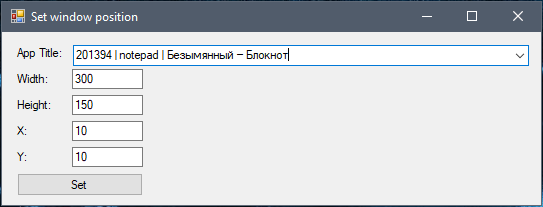
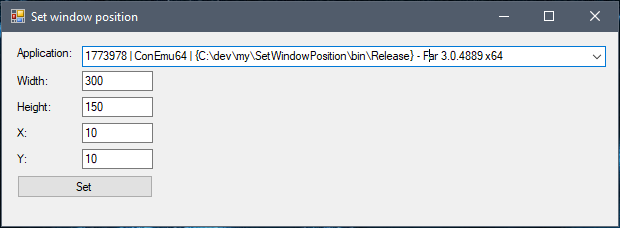
fix

diff --git a/Form1.Designer.cs b/Form1.Designer.cs
@@ -43,9 +43,9 @@
             // 
             // btnSet
             // 
-            this.btnSet.Location = new System.Drawing.Point(15, 141);
+            this.btnSet.Location = new System.Drawing.Point(15, 143);
             this.btnSet.Name = "btnSet";
-            this.btnSet.Size = new System.Drawing.Size(126, 23);
+            this.btnSet.Size = new System.Drawing.Size(136, 23);
             this.btnSet.TabIndex = 21;
             this.btnSet.Text = "Set";
             this.btnSet.UseVisualStyleBackColor = true;
@@ -53,7 +53,7 @@
             // 
             // txtY
             // 
-            this.txtY.Location = new System.Drawing.Point(70, 115);
+            this.txtY.Location = new System.Drawing.Point(80, 117);
             this.txtY.Name = "txtY";
             this.txtY.Size = new System.Drawing.Size(71, 20);
             this.txtY.TabIndex = 20;
@@ -62,7 +62,7 @@
             // label4
             // 
             this.label4.AutoSize = true;
-            this.label4.Location = new System.Drawing.Point(12, 118);
+            this.label4.Location = new System.Drawing.Point(12, 120);
             this.label4.Name = "label4";
             this.label4.Size = new System.Drawing.Size(17, 13);
             this.label4.TabIndex = 19;
@@ -70,7 +70,7 @@
             // 
             // txtX
             // 
-            this.txtX.Location = new System.Drawing.Point(70, 89);
+            this.txtX.Location = new System.Drawing.Point(80, 91);
             this.txtX.Name = "txtX";
             this.txtX.Size = new System.Drawing.Size(71, 20);
             this.txtX.TabIndex = 18;
@@ -79,7 +79,7 @@
             // label5
             // 
             this.label5.AutoSize = true;
-            this.label5.Location = new System.Drawing.Point(12, 92);
+            this.label5.Location = new System.Drawing.Point(12, 94);
             this.label5.Name = "label5";
             this.label5.Size = new System.Drawing.Size(17, 13);
             this.label5.TabIndex = 17;
@@ -87,7 +87,7 @@
             // 
             // txtHeight
             // 
-            this.txtHeight.Location = new System.Drawing.Point(70, 63);
+            this.txtHeight.Location = new System.Drawing.Point(80, 65);
             this.txtHeight.Name = "txtHeight";
             this.txtHeight.Size = new System.Drawing.Size(71, 20);
             this.txtHeight.TabIndex = 16;
@@ -96,7 +96,7 @@
             // label3
             // 
             this.label3.AutoSize = true;
-            this.label3.Location = new System.Drawing.Point(12, 66);
+            this.label3.Location = new System.Drawing.Point(12, 68);
             this.label3.Name = "label3";
             this.label3.Size = new System.Drawing.Size(41, 13);
             this.label3.TabIndex = 15;
@@ -104,7 +104,7 @@
             // 
             // txtWidth
             // 
-            this.txtWidth.Location = new System.Drawing.Point(70, 37);
+            this.txtWidth.Location = new System.Drawing.Point(80, 39);
             this.txtWidth.Name = "txtWidth";
             this.txtWidth.Size = new System.Drawing.Size(71, 20);
             this.txtWidth.TabIndex = 14;
@@ -113,7 +113,7 @@
             // label2
             // 
             this.label2.AutoSize = true;
-            this.label2.Location = new System.Drawing.Point(12, 40);
+            this.label2.Location = new System.Drawing.Point(12, 42);
             this.label2.Name = "label2";
             this.label2.Size = new System.Drawing.Size(38, 13);
             this.label2.TabIndex = 13;
@@ -124,25 +124,25 @@
             this.label1.AutoSize = true;
             this.label1.Location = new System.Drawing.Point(12, 14);
             this.label1.Name = "label1";
-            this.label1.Size = new System.Drawing.Size(52, 13);
+            this.label1.Size = new System.Drawing.Size(62, 13);
             this.label1.TabIndex = 11;
-            this.label1.Text = "App Title:";
+            this.label1.Text = "Application:";
             // 
             // comboBox1
             // 
             this.comboBox1.Anchor = ((System.Windows.Forms.AnchorStyles)(((System.Windows.Forms.AnchorStyles.Top | System.Windows.Forms.AnchorStyles.Left) 
             | System.Windows.Forms.AnchorStyles.Right)));
             this.comboBox1.FormattingEnabled = true;
-            this.comboBox1.Location = new System.Drawing.Point(71, 13);
+            this.comboBox1.Location = new System.Drawing.Point(80, 14);
             this.comboBox1.Name = "comboBox1";
-            this.comboBox1.Size = new System.Drawing.Size(251, 21);
+            this.comboBox1.Size = new System.Drawing.Size(247, 21);
             this.comboBox1.TabIndex = 22;
             // 
             // Form1
             // 
             this.AutoScaleDimensions = new System.Drawing.SizeF(6F, 13F);
             this.AutoScaleMode = System.Windows.Forms.AutoScaleMode.Font;
-            this.ClientSize = new System.Drawing.Size(334, 173);
+            this.ClientSize = new System.Drawing.Size(339, 178);
             this.Controls.Add(this.comboBox1);
             this.Controls.Add(this.btnSet);
             this.Controls.Add(this.txtY);
